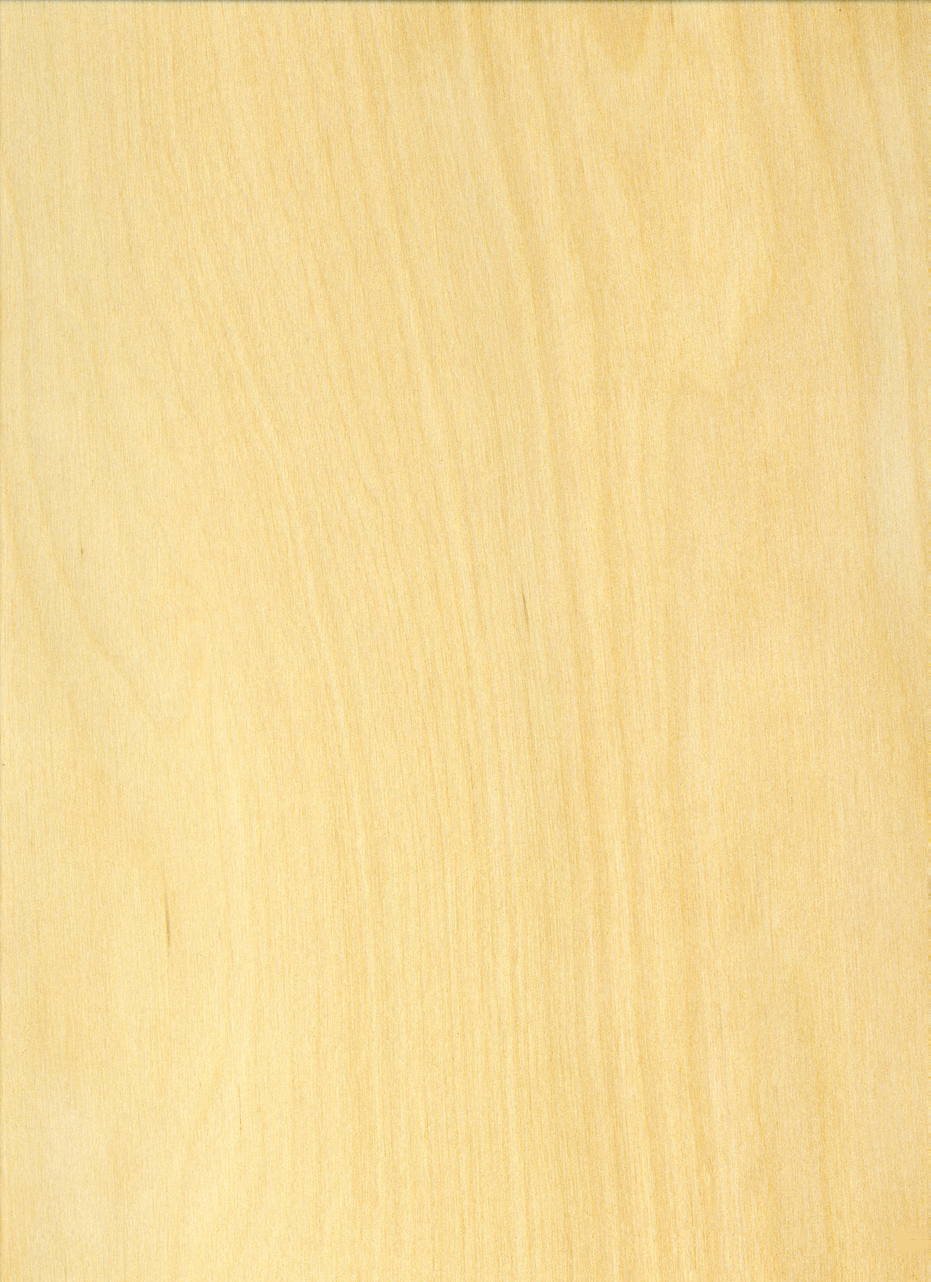
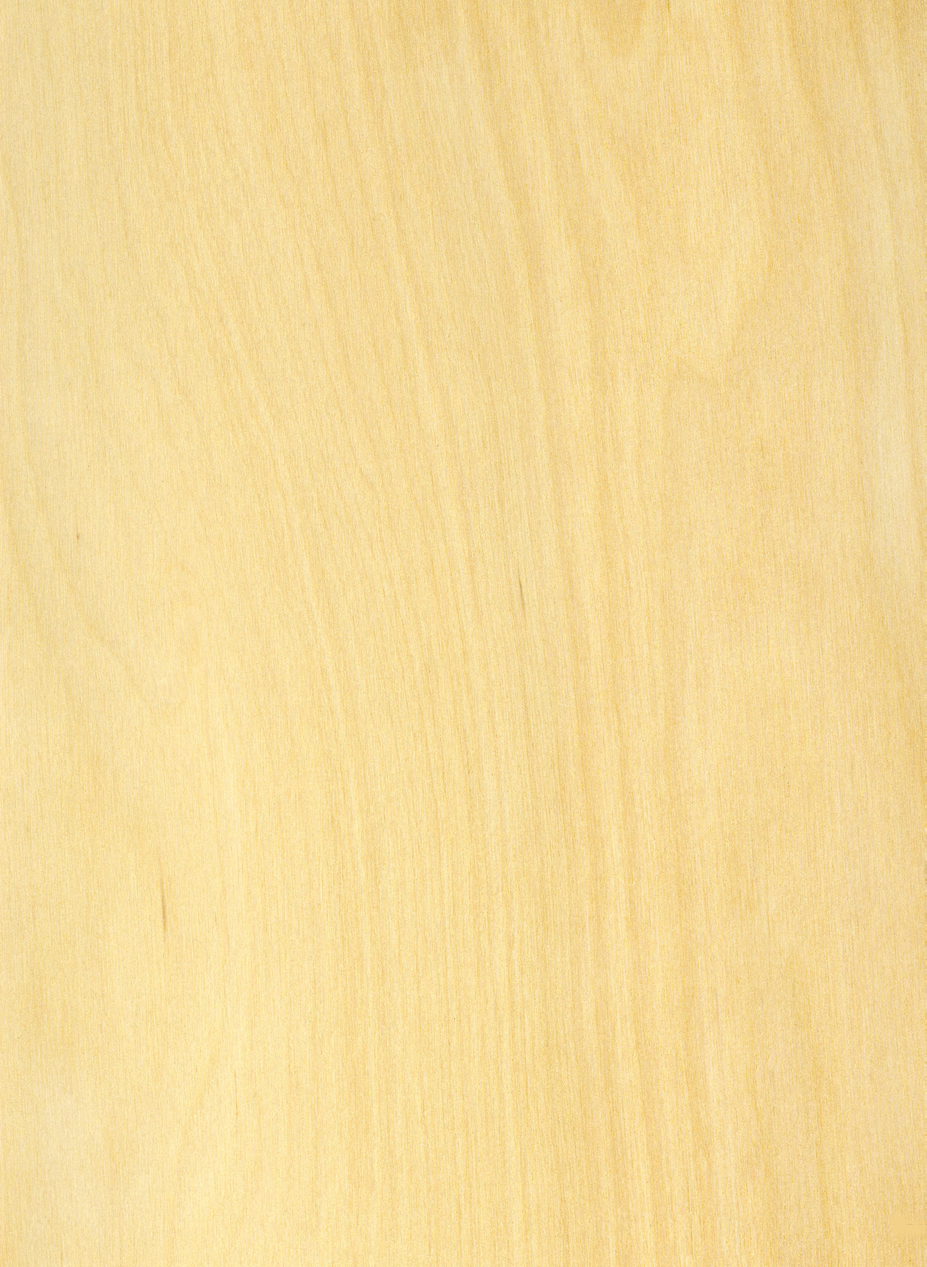
fixing image

diff --git a/css/decision.css b/css/decision.css
@@ -13,8 +13,7 @@
 
 .page {
         z-index: 100;
-        background: url('../images/wood.jpg') top right no-repeat;
-        background-size: cover;	
+        background: url('../images/wood.jpg') top right;
         margin-bottom: 20px;
         padding-left: 5px;
         padding-right: 5px;
